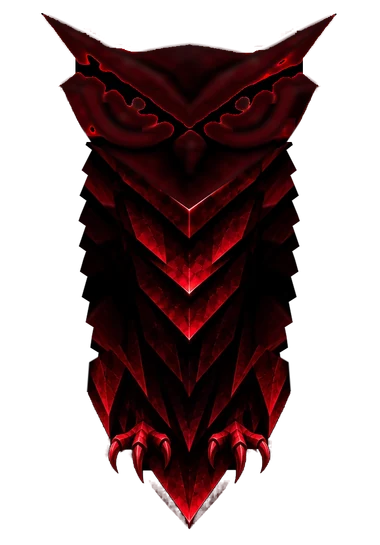
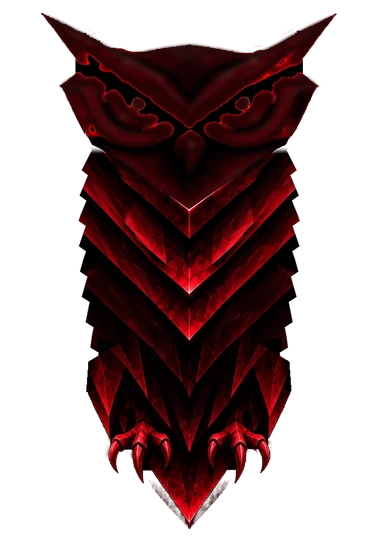
Owl: lit flanks under the open wings; the open wing grows from the shoulder
With the wings open, the sides of the chest showed as a near-black void: they
had been filled from the dark gap beside the chest, which is the folded wing's
shadow. The chevrons are now carried out from their lit middles, and that
shadow is a layer of its own (owl-body-gap) that fades as the wing lifts; over
the body it gives back the perched owl exactly, and the build checks it.

The open wing no longer fades in as a faint ghost: it grows out from under the
folded wing, from the shoulder to the tips, and draws back in when folding.

diff --git a/index.html b/index.html
@@ -287,6 +287,7 @@ const S0 = 768 / 1337, OX0 = 516 * S0, OY0 = 170 * S0;          // the client's 
 const orig = (x, y) => [x * S0 + OX0, y * S0 + OY0];
 const ART = {
   body: small ? 'assets/owl-body-m.webp' : 'assets/owl-body.webp', head: 'assets/owl-head.webp',
+  gap: small ? 'assets/owl-body-gap-m.webp' : 'assets/owl-body-gap.webp',   // the folded wings' shadow on the body
   unit: 100,                                                    // frame px per world unit
   restBox: [330, 80, 690, 990],                                 // the body image, in the client's image
   // the folded wings, cut from the perched owl: each lifts off the body from its shoulder (the open
@@ -377,11 +378,12 @@ function buildOwl() {
   const owl = new THREE.Group(); owlRoot.add(owl);           // hops a little while flapping
   const headG = new THREE.Group(); owl.add(headG);
 
-  // the body: the perched owl without its folded wings (where they lay, the chest goes on). It stands on
-  // its legs: lifted, the toes stay on the branch and only the legs stretch; it fills out across the chest.
+  // the body: the perched owl without its folded wings (where they lay, the chest goes on), and over it
+  // the shadow the folded wings cast on it, which fades as they lift. It stands on its legs: lifted,
+  // the toes stay on the branch and only the legs stretch; it fills out across the chest.
   const [bx0, by0, bw0, bh0] = ART.restBox, [bcx, bcy] = W(...orig(bx0 + bw0 / 2, by0 + bh0 / 2));
   const bodyU = {
-    map: { value: null }, lift: { value: 0 }, puff: { value: 0 },
+    map: { value: null }, gap: { value: null }, shadow: { value: 1 }, lift: { value: 0 }, puff: { value: 0 },
     legs: { value: new THREE.Vector3(W(0, orig(0, ART.legs[0])[1])[1] - bcy, W(0, orig(0, ART.legs[1])[1])[1] - bcy, -bcx) },
   };
   const body = new THREE.Mesh(new THREE.PlaneGeometry(bw0 * S0 / ART.unit, bh0 * S0 / ART.unit, 1, 80), new THREE.ShaderMaterial({
@@ -394,31 +396,38 @@ function buildOwl() {
         p.x = legs.z + (p.x - legs.z) * (1. + puff * w);
         gl_Position = projectionMatrix * modelViewMatrix * vec4(p, 1.);
       }`,
-    fragmentShader: `uniform sampler2D map; varying vec2 vUv;
-      void main() { vec4 c = texture2D(map, vUv); if (c.a < .004) discard; gl_FragColor = c; }`,
+    fragmentShader: `uniform sampler2D map; uniform sampler2D gap; uniform float shadow; varying vec2 vUv;
+      void main() {
+        vec4 c = texture2D(map, vUv), g = texture2D(gap, vUv);
+        float ga = g.a * shadow, a = ga + c.a * (1. - ga);      // the shadow laid over the body
+        if (a < .004) discard;
+        gl_FragColor = vec4((g.rgb * ga + c.rgb * c.a * (1. - ga)) / a, a);
+      }`,
   }));
   body.position.set(bcx, bcy, 0); body.renderOrder = 1; body.visible = false; owl.add(body);
 
   // a wing hangs from its shoulder: its plane is moved so the shoulder is the origin, and its group
   // turns. The outer feathers bend a little behind the motion (bend); turned away it darkens (face).
-  const wingVS = `uniform float bend; uniform float dir; varying vec2 vUv;
+  const wingVS = `uniform float bend; uniform float dir; varying vec2 vUv; varying float vR;
     void main() {
       vUv = uv;
       vec3 p = position;
+      vR = length(p.xy);                                        // how far from the shoulder
       float a = dir * bend * smoothstep(.6, 4.2, length(p.xy)), c = cos(a), s = sin(a);
       p.xy = vec2(c * p.x - s * p.y, s * p.x + c * p.y);
       gl_Position = projectionMatrix * modelViewMatrix * vec4(p, 1.);
     }`;
-  const wingFS = `uniform sampler2D map; uniform float face; uniform float alpha; varying vec2 vUv;
+  // reach: the wing shows out to this far from the shoulder (it grows out of the folded wing, it doesn't fade in)
+  const wingFS = `uniform sampler2D map; uniform float face; uniform float alpha; uniform float reach; varying vec2 vUv; varying float vR;
     void main() {
       vec4 c = texture2D(map, vUv);
-      c.a *= alpha;
+      c.a *= alpha * (1. - smoothstep(reach - .6, reach, vR));
       if (c.a < .01) discard;
       c.rgb *= mix(.38, 1., face);
       gl_FragColor = c;
     }`;
   const hinged = (geo, dir, src, order, z, [sx, sy]) => {
-    const u = { map: { value: null }, bend: { value: 0 }, dir: { value: dir }, face: { value: 1 }, alpha: { value: 1 } };
+    const u = { map: { value: null }, bend: { value: 0 }, dir: { value: dir }, face: { value: 1 }, alpha: { value: 1 }, reach: { value: 99 } };
     const mesh = new THREE.Mesh(geo, new THREE.ShaderMaterial({ uniforms: u, vertexShader: wingVS, fragmentShader: wingFS, transparent: true, depthWrite: false, side: THREE.DoubleSide }));
     mesh.renderOrder = order;
     const group = new THREE.Group(), [x, y] = W(...orig(sx, sy));
@@ -454,9 +463,9 @@ function buildOwl() {
   const tex = src => new Promise(res => loader.load(src, t => { t.minFilter = THREE.LinearFilter; t.generateMipmaps = false; res(t); }, undefined, () => res(null)));
   const headImg = new Promise(res => { const i = new Image(); i.onload = () => res(i); i.onerror = () => res(null); i.src = ART.head; });
   // two stages: the owl at rest first (body, folded wings, head), then its open wings
-  const restReady = Promise.all([tex(ART.body), ...folds.map(f => tex(f.src)), headImg]).then(([b, fl, fr, head]) => {
-    if (!b || !fl || !fr) return false;
-    bodyU.map.value = b; body.visible = true;
+  const restReady = Promise.all([tex(ART.body), tex(ART.gap), ...folds.map(f => tex(f.src)), headImg]).then(([b, gp, fl, fr, head]) => {
+    if (!b || !gp || !fl || !fr) return false;
+    bodyU.map.value = b; bodyU.gap.value = gp; body.visible = true;
     folds[0].u.map.value = fl; folds[1].u.map.value = fr;
     for (const f of folds) f.group.visible = true;
     if (head) buildHead(head);
@@ -514,19 +523,21 @@ function buildOwl() {
      far the body rises off its legs (world units); puff: how much the chest fills out; lean: the body
      tipping toward us, about the toes.
      A folded wing lifts off the body and swings out from its shoulder, turning its face a little; the
-     open wing, hung from the same shoulder and aimed the same way, takes over under it as it goes, so
-     the eye sees one wing open. Folding back is the same, the other way. */
+     open wing, hung from the same shoulder and aimed the same way, grows out from under it, from the
+     shoulder to the tips, and the folded one gives way, so the eye sees one wing open. Folding back is
+     the same, the other way: the open wing draws in to the shoulder under the folded one. */
   function setPose(s, beat, bend, lift, puff, lean) {
     if (!moving) s = 0;
-    const fold = 1 - s, open = smoothstep(RIG.handoff[0], RIG.handoff[1], s), gone = smoothstep(RIG.handoff[0] + .08, RIG.handoff[1] + .08, s);
+    const [h0, h1] = RIG.handoff, fold = 1 - s, grow = smoothstep(h0, h1, s), gone = smoothstep(h0 + .1, h1 + .06, s);
     for (const w of wings) {
-      w.group.visible = open > .002;
+      w.group.visible = s > h0 - .02;
       w.group.position.set(w.x * (1 + puff), w.y + lift, w.z);
       w.group.rotation.set(0, w.dir * fold * RIG.swing, w.dir * (beat - fold * RIG.droop));   // droop, then turn its face away
       w.group.scale.setScalar(RIG.small + (1 - RIG.small) * s);
-      w.u.bend.value = bend; w.u.face.value = Math.cos(fold * RIG.swing); w.u.alpha.value = open;
+      w.u.bend.value = bend; w.u.face.value = Math.cos(fold * RIG.swing);
+      w.u.alpha.value = smoothstep(h0 - .02, h0 + .05, s); w.u.reach.value = lerp(.3, RIG.reach, grow);
     }
-    const k = smoothstep(0, RIG.handoff[1] + .08, s);
+    const k = smoothstep(0, h1 + .08, s);
     for (const f of folds) {
       f.group.visible = gone < .998;
       f.group.position.set(f.x * (1 + puff), f.y + lift, f.z);
@@ -535,6 +546,7 @@ function buildOwl() {
       f.u.face.value = Math.cos(k * RIG.foldSwing); f.u.alpha.value = 1 - gone; f.u.bend.value = bend * .5;
     }
     bodyU.lift.value = lift; bodyU.puff.value = puff;
+    bodyU.shadow.value = 1 - smoothstep(.02, RIG.handoff[1] - .04, s);   // the folded wings' shadow goes with them
     if (headG.userData.baseY != null) headG.position.y = headG.userData.baseY + lift * RIG.headFollow;
     // tipping toward us about the toes, which stay where they grip
     const G = OWL.GRIP_Y;
@@ -559,9 +571,10 @@ const LEAN = [[0, 0], [.5, .06, 'inOutSine'], [.84, .11, 'inOutSine'], [1.04, .0
 const DUR = { flap: 2.45, fade: .45 };
 /* the wings' rig. The open wing starts drooped (droop, radians) along the body, turned away (swing)
    and smaller (small); the folded one swings out (foldTurn) and turns (foldSwing), reaching a little
-   longer (foldReach). Between the two s values of handoff the open wing takes over. The head rises
-   with the body only partly (a bird holds its head still). */
-const RIG = { droop: 1.23, swing: .9, small: .62, foldTurn: .55, foldSwing: .55, foldReach: .2, handoff: [.1, .34], headFollow: .8 };
+   longer (foldReach). Between the two s values of handoff the open wing grows out to its full length
+   (reach, world units from the shoulder past its tips) and takes over. The head rises with the body
+   only partly (a bird holds its head still). */
+const RIG = { droop: 1.23, swing: .9, small: .62, foldTurn: .55, foldSwing: .55, foldReach: .2, handoff: [.1, .36], reach: 5.2, headFollow: .8 };
 function keyed(keys, t) {
   if (t <= 0) return keys[0][1];
   for (let i = 1; i < keys.length; i++) {

diff --git a/tools/build-owl.js b/tools/build-owl.js
@@ -53,7 +53,7 @@ function solidify(a, w, h, R, region, thr = 110, top = true) {
   }
 }
 // crop an RGBA buffer, optionally multiplying its alpha by a mask, and write it (plus a phone size)
-async function save(rgba, W, [x0, y0, w, h], name, { mask, q = 92, phone = .55 } = {}) {
+async function save(rgba, W, [x0, y0, w, h], name, { mask, q = 92, phone = .55, lossless = false } = {}) {
   const buf = Buffer.alloc(w * h * 4);
   for (let y = 0; y < h; y++) for (let x = 0; x < w; x++) {
     const i = (y0 + y) * W + x0 + x, d = (y * w + x) * 4;
@@ -61,8 +61,8 @@ async function save(rgba, W, [x0, y0, w, h], name, { mask, q = 92, phone = .55 }
     buf[d + 3] = Math.round(rgba[i * 4 + 3] * (mask ? mask[i] : 1));
   }
   const img = () => sharp(buf, { raw: { width: w, height: h, channels: 4 } });
-  await img().webp({ quality: q, alphaQuality: 95, effort: 6 }).toFile(path.join(OUT, name + '.webp'));
-  if (phone) await img().resize(Math.round(w * phone)).webp({ quality: q - 4, alphaQuality: 92, effort: 6 }).toFile(path.join(OUT, name + '-m.webp'));
+  await img().webp(lossless ? { lossless: true, effort: 6 } : { quality: q, alphaQuality: 95, effort: 6 }).toFile(path.join(OUT, name + '.webp'));
+  if (phone) await img().resize(Math.round(w * phone)).webp(lossless ? { lossless: true, effort: 6 } : { quality: q - 4, alphaQuality: 92, effort: 6 }).toFile(path.join(OUT, name + '-m.webp'));
   console.log(name, [x0, y0, w, h].join(','));
 }
 
@@ -100,30 +100,54 @@ function sample(a, W, H, x, y) {
   return o;                                               // premultiplied rgb, alpha 0..1
 }
 
-/* the body without its folded wings. Where a wing lay, the chest goes on: every chevron is carried
-   outward along its own arm (the texture is read from inside the chest, further down that arm), a
-   little darker as the chest turns away to the side. */
+/* the body without its folded wings, and the shadow those wings cast on it.
+   With the wings open, the chest goes on to the flanks: every chevron is carried outward along its
+   own arm from OPEN_EDGE (the texture is read from the chevrons' lit middles, further down the same
+   arm), a little darker toward the side. That replaces both the wing and the dark gap the folded wing
+   leaves beside the chest, which is its shadow. The shadow is kept as a layer of its own (gap): over
+   the body it gives back the perched owl exactly, and it fades as the wing lifts. */
+const OPEN_EDGE = 612;                                    // left side; inside this the chest is as drawn
 function wingless(rest, W, H, foldM) {
-  const body = Buffer.from(rest);
+  const body = Buffer.from(rest), gap = Buffer.alloc(W * H * 4);
+  const faceLine = lx => 350 + (lx - 513) * 110 / 160;  // the head's lower edge beside the chest (under it: the head)
   for (let i = 0; i < W * H; i++) {
-    const fm = foldM.l[i] + foldM.r[i]; if (fm <= 0) continue;
     const x = i % W, y = (i / W) | 0, left = x < MID, lx = left ? x : 2 * MID - x;   // lx: as if on the left
-    const d = Math.max(0, CHEST_EDGE - lx);               // how far out of the chest
-    const xs = left ? CHEST_EDGE + 4 + .45 * d : 2 * MID - CHEST_EDGE - 4 - .45 * d;
-    const ys = y + Math.abs(xs - x);                      // the chevrons' arms slope at about 1:1
-    const [r, g, b, a] = sample(rest, W, H, xs, ys);
-    const out = flankEdge(y), inside = Math.min(1, Math.max(0, (lx - out) / 1.6 + .5)) * (y >= 338 ? 1 : 0);
-    const shade = (.95 - .45 * sstep(0, 72, d)) * (.72 + .28 * sstep(0, 9, lx - out)), fa = a * inside;
-    // premultiplied mix of what was there (the wing, now cut away) and the flank, by the wing's mask
-    const o = i * 4, ra = rest[o + 3] / 255 * (1 - fm), na = ra + fa * fm;
+    const fm = foldM.l[i] + foldM.r[i], Oa = rest[i * 4 + 3] / 255;
+    if (fm <= 0 && (lx > OPEN_EDGE || lx < 520 || y < 338 || y > 760 || Oa < .99)) continue;
+    if (fm < 1 && Oa < .99) {                             // a see-through edge the folded wing half covers: as drawn,
+      body[i * 4 + 3] = Math.round(255 * Oa * (1 - fm) / (1 - Oa * fm));   // so that with the wing over it, it adds up to it
+      continue;
+    }
+    const out = flankEdge(y);
+    // the chest carried outward
+    const d = OPEN_EDGE - lx, xl = OPEN_EDGE + .35 * d, xs = left ? xl : 2 * MID - xl;
+    const ys = Math.min(835, y + (xl - lx));               // the chevrons' arms slope at about 1:1
+    let [r, g, b, a] = sample(rest, W, H, xs, ys);
+    const shade = (1 - .24 * sstep(20, 126, d)) * (.72 + .28 * sstep(0, 9, lx - out));
+    if (a > 0) { r = r / a * shade; g = g / a * shade; b = b / a * shade; }
+    const o = i * 4, O = [rest[o], rest[o + 1], rest[o + 2]];
+    // the open look: under the wing (by its mask) the flank; beside it, in its shadow, the lit chest
+    const fa = a * Math.min(1, Math.max(0, (lx - out) / 1.6 + .5)) * sstep(346, 360, y);
+    const v = fm < 1 ? sstep(faceLine(lx) + 2, faceLine(lx) + 14, y) * (1 - sstep(705, 735, y)) * sstep(0, 8, d) : 0;
+    const na = fa * fm + Oa * (1 - fm);
     if (na < 1 / 255) { body[o + 3] = 0; continue; }
-    const fill = a > 0 ? fa * fm / a : 0;
-    body[o] = Math.round((rest[o] * ra + r * shade * fill) / na);
-    body[o + 1] = Math.round((rest[o + 1] * ra + g * shade * fill) / na);
-    body[o + 2] = Math.round((rest[o + 2] * ra + b * shade * fill) / na);
-    body[o + 3] = Math.round(na * 255);
+    const P = [r, g, b].map((c, k) => (c * fa * fm + (O[k] + (c - O[k]) * v) * Oa * (1 - fm)) / na);
+    if (fm >= 1) {
+      for (let k = 0; k < 3; k++) body[o + k] = Math.round(P[k]);
+      body[o + 3] = Math.round(na * 255);
+      continue;
+    }
+    // where any of the perched owl shows past the folded wing, the body under the shadow layer must
+    // give it back exactly: never darker than drawn, and the shadow B * (1 - s) + C * s == O
+    const B = P.map((c, k) => Math.max(O[k], c));
+    let s = 0; for (let k = 0; k < 3; k++) if (B[k] > 0) s = Math.max(s, 1 - O[k] / B[k]);
+    for (let k = 0; k < 3; k++) {
+      body[o + k] = Math.round(B[k]);
+      gap[o + k] = s > 0 ? Math.round(Math.max(0, O[k] - B[k] * (1 - s)) / s) : 0;
+    }
+    body[o + 3] = 255; gap[o + 3] = Math.round(s * 255);
   }
-  return body;
+  return { body, gap };
 }
 // each foot's toes and talons, each talon on its own so the gaps between them stay open
 const FOOT = [[523, 868], [560, 852], [588, 838], [616, 852], [645, 870], [646, 900], [646, 930], [630, 932], [618, 915], [618, 900], [604, 900], [604, 935], [596, 962], [578, 962], [570, 935], [570, 900], [556, 900], [556, 935], [546, 948], [530, 946], [522, 920], [522, 900]];
@@ -154,7 +178,24 @@ async function perched() {
   // the folded wings, each its own layer that lifts off the body and opens; and the body under them
   const foldM = { l: await polyMask(W, H, [FOLD], .8), r: await polyMask(W, H, [mirror(FOLD)], .8) };
   for (const s of ['l', 'r']) await save(rest, W, FOLD_BOX[s], 'owl-fold-' + s, { mask: foldM[s], q: 92 });
-  await save(wingless(rest, W, H, foldM), W, REST_BOX, 'owl-body', { q: 92 });
+  const { body, gap } = wingless(rest, W, H, foldM);
+  // check: body, its shadow and the folded wings, laid over each other, give back the perched owl
+  let worst = 0; const off = {};
+  for (let i = 0; i < W * H; i++) {
+    const o = i * 4, fa = rest[o + 3] / 255 * (foldM.l[i] + foldM.r[i]), ga = gap[o + 3] / 255;
+    let A = body[o + 3] / 255; const c = [0, 1, 2].map(k => body[o + k] * A);
+    for (let k = 0; k < 3; k++) c[k] = gap[o + k] * ga + c[k] * (1 - ga); A = ga + A * (1 - ga);
+    for (let k = 0; k < 3; k++) c[k] = rest[o + k] * fa + c[k] * (1 - fa); A = fa + A * (1 - fa);
+    let e = Math.abs(A - rest[o + 3] / 255) * 255;
+    for (let k = 0; k < 3; k++) e = Math.max(e, Math.abs(c[k] - rest[o + k] * rest[o + 3] / 255));
+    worst = Math.max(worst, e);
+    if (e > 8) { const b = `${Math.floor(i % W / 25) * 25},${Math.floor(i / W / 25) * 25}`; off[b] = (off[b] || 0) + 1; }
+  }
+  const bad = Object.entries(off).sort((a, b) => b[1] - a[1]);
+  console.log('perched owl rebuilt from its layers, worst difference:', worst.toFixed(1), '/ 255;',
+    bad.length ? 'off by more than 8 at (x,y: px) ' + bad.slice(0, 8).map(e => e.join(': ')).join('  ') : 'none off by more than 8');
+  await save(body, W, REST_BOX, 'owl-body', { q: 92 });
+  await save(gap, W, REST_BOX, 'owl-body-gap', { lossless: true });
 
   // the talons layer, in front of the branch
   const plain = cutout(org, W, H, { close: 6, t0: 6, t1: 34, minArea: 30 });

diff --git a/README.md b/README.md
@@ -29,7 +29,9 @@ node build-owl.js
 ```
 
 It writes into `assets/`: the perched body without its folded wings (`owl-body`; where the wings lay,
-the chest's chevrons carry on), the two folded wings that lift off it (`owl-fold-l`, `owl-fold-r`),
+the chest's chevrons carry on, lit), the shadow the folded wings cast on it, which fades as they lift
+(`owl-body-gap`; over the body it gives back the perched owl exactly, and the build checks that),
+the two folded wings that lift off it (`owl-fold-l`, `owl-fold-r`),
 the head layer that turns toward the mouse (`owl-head`), the talons that grip the branch (`owl-talons`),
 the two open wings they hand over to (`owl-wing-l`, `owl-wing-r`), and the share image (`og.jpg`).
 The `-m` files are the lighter phone versions.
